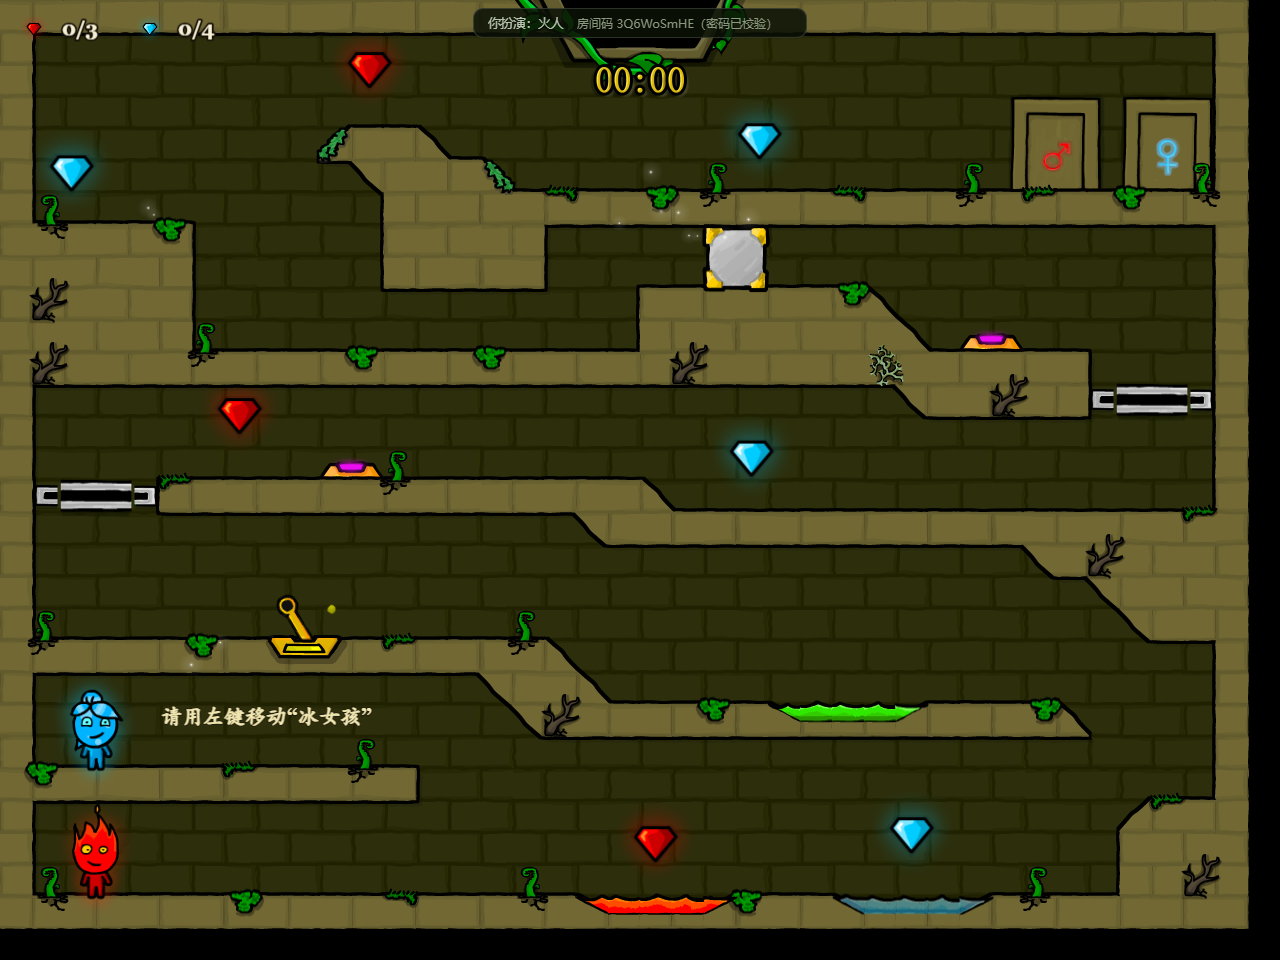
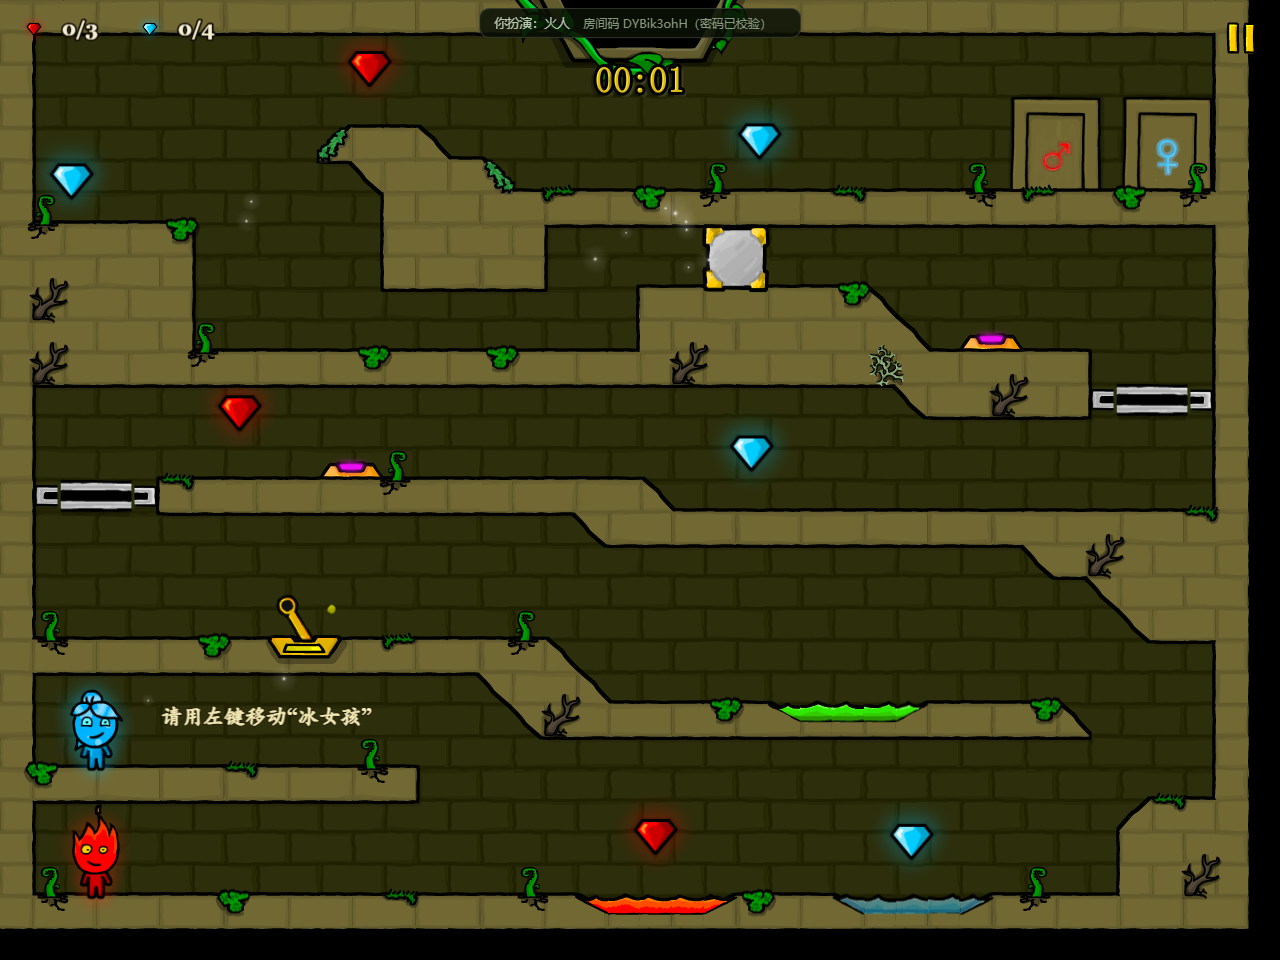
fix(client): 补渲染原版画布内右上暂停钮（R11）
- PopupAssets PauseButton0000 @ 右上 15px 边距（LevelUI 实证位）；联机暂停属服务端功能仅渲染
- e2e 联机回归 PASS（房间码完整解析修复验证）；视觉指数 94.96（±噪声）
- 报告 §十四；版本 0.3.9 → 0.3.10

diff --git a/gyのFW/packages/client/src/scenes/GameScene.ts b/gyのFW/packages/client/src/scenes/GameScene.ts
@@ -729,6 +729,8 @@ export class GameScene extends Phaser.Scene {
     const clockX = 640; // 画布 1280 的水平中心（原版 LevelUI 时钟位）
     // 原版 Clock 锚点 (0.5, 0.05)：盘面上探 5px；文字区在 y≈55-83（像素差分热图实证）
     this.add.image(clockX, 0, ATLAS_TEMPLE, "Clock0000").setOrigin(0.5, 0.05).setDepth(9).setScrollFactor(0);
+    // 原版 LevelUI 右上暂停钮（渲染保真；联机暂停语义属服务端功能，此处仅视觉）
+    this.add.image(1265, 15, ATLAS_POPUP, "PauseButton0000").setOrigin(1, 0).setDepth(9).setScrollFactor(0);
     // 原版 LevelUI/Clock：TempleAssets Clock0000 + font 位图字 24 号（bitmapText 基准 48 半缩放）
     this.clockText = this.add
       .bitmapText(clockX, 56, FONT_MAIN, "00:00", 24)

diff --git a/gyのFW/note/release/0.3.10.md b/gyのFW/note/release/0.3.10.md
@@ -1,0 +1,7 @@
+# 0.3.10 · 画布内暂停钮渲染保真
+
+> 2026-10-06。视觉保真轮：补渲染原版 LevelUI 右上暂停钮（PopupAssets PauseButton0000）。
+
+- 联机暂停语义属服务端功能，本版仅渲染保真（按钮无交互）。
+- 视觉复刻度 95.00 → 94.96（±噪声）；**e2e 联机回归 PASS**（房间码完整解析修复验证）。
+- 验证：typecheck + build 全绿；83/83 单测不受影响。
